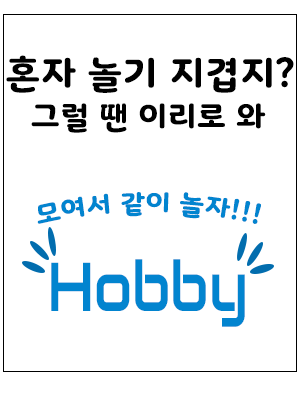
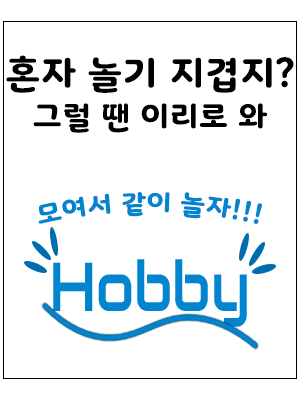
ver1.9.5
배너광고 이미지 변경 및 추가

diff --git a/src/main/webapp/resources/css/tiles/layout.css b/src/main/webapp/resources/css/tiles/layout.css
@@ -1,23 +1,14 @@
 @charset "UTF-8";
 
 /* 글꼴 설정 */
-@font-face {
+@font-face { 
 	font-family: "Binggrae";
 	src:url("/hobby/resources/font/Binggrae-Bold.otf") format("opentype");
 }
 
-/* 전체적 글꼴, 여백 초기화 */
-* { 
-	font-family: Binggrae;
-	margin: 0;
-	padding: 0;
-}
- 
-/* 전체적 a태그 스타일 초기화 */
-a {
-	text-decoration: none;
-	color: black;
-}
+/* 기본 설정 */
+* { font-family: Binggrae; margin: 0; padding: 0; }
+a {	text-decoration: none; color: black; }
 
 /* 레이아웃 영역 */
 #mainLayout {
@@ -50,11 +41,8 @@ a {
 } 
 
 /* 배너광고 각 이미지 영역 */
-.banner_size {
-	width: 300px;
-	height: 500px;
-	margin-bottom: 10px;
-}
+.banner1 { width: 300px; height: 400px; margin-bottom: 10px; }
+.banner2 { width: 200px; height: 300px; margin-bottom: 10px; }
 
 /* 배너광고 이미지 최대크기 설정 */
 .banner_size > img { max-width: 300px; max-height: 500px; }
